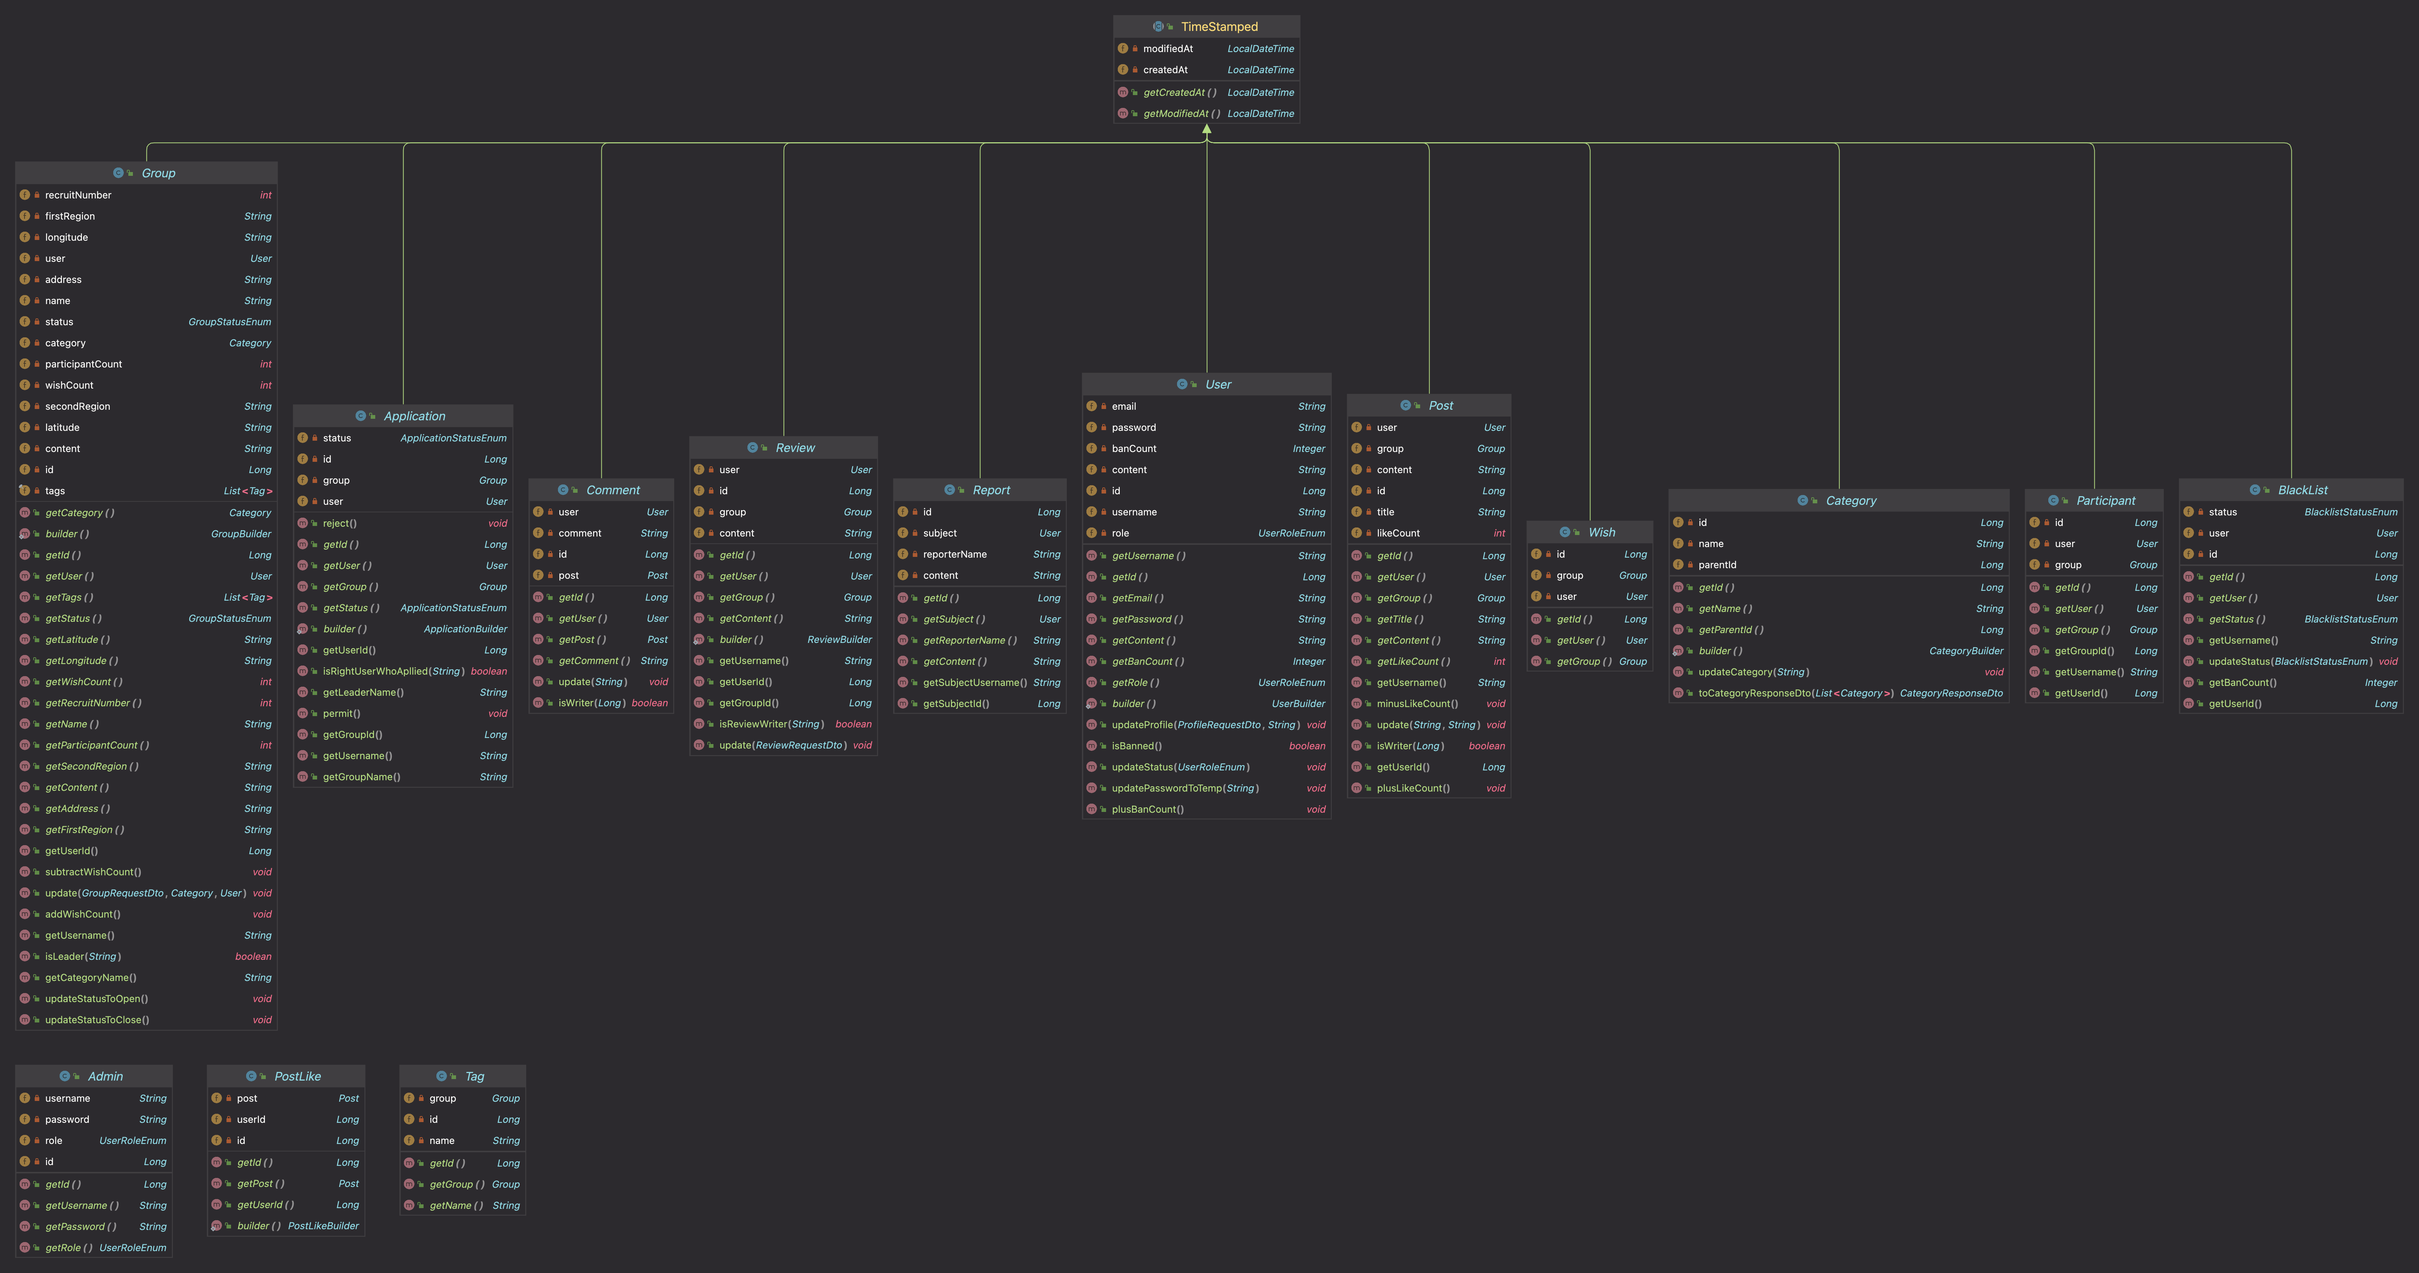
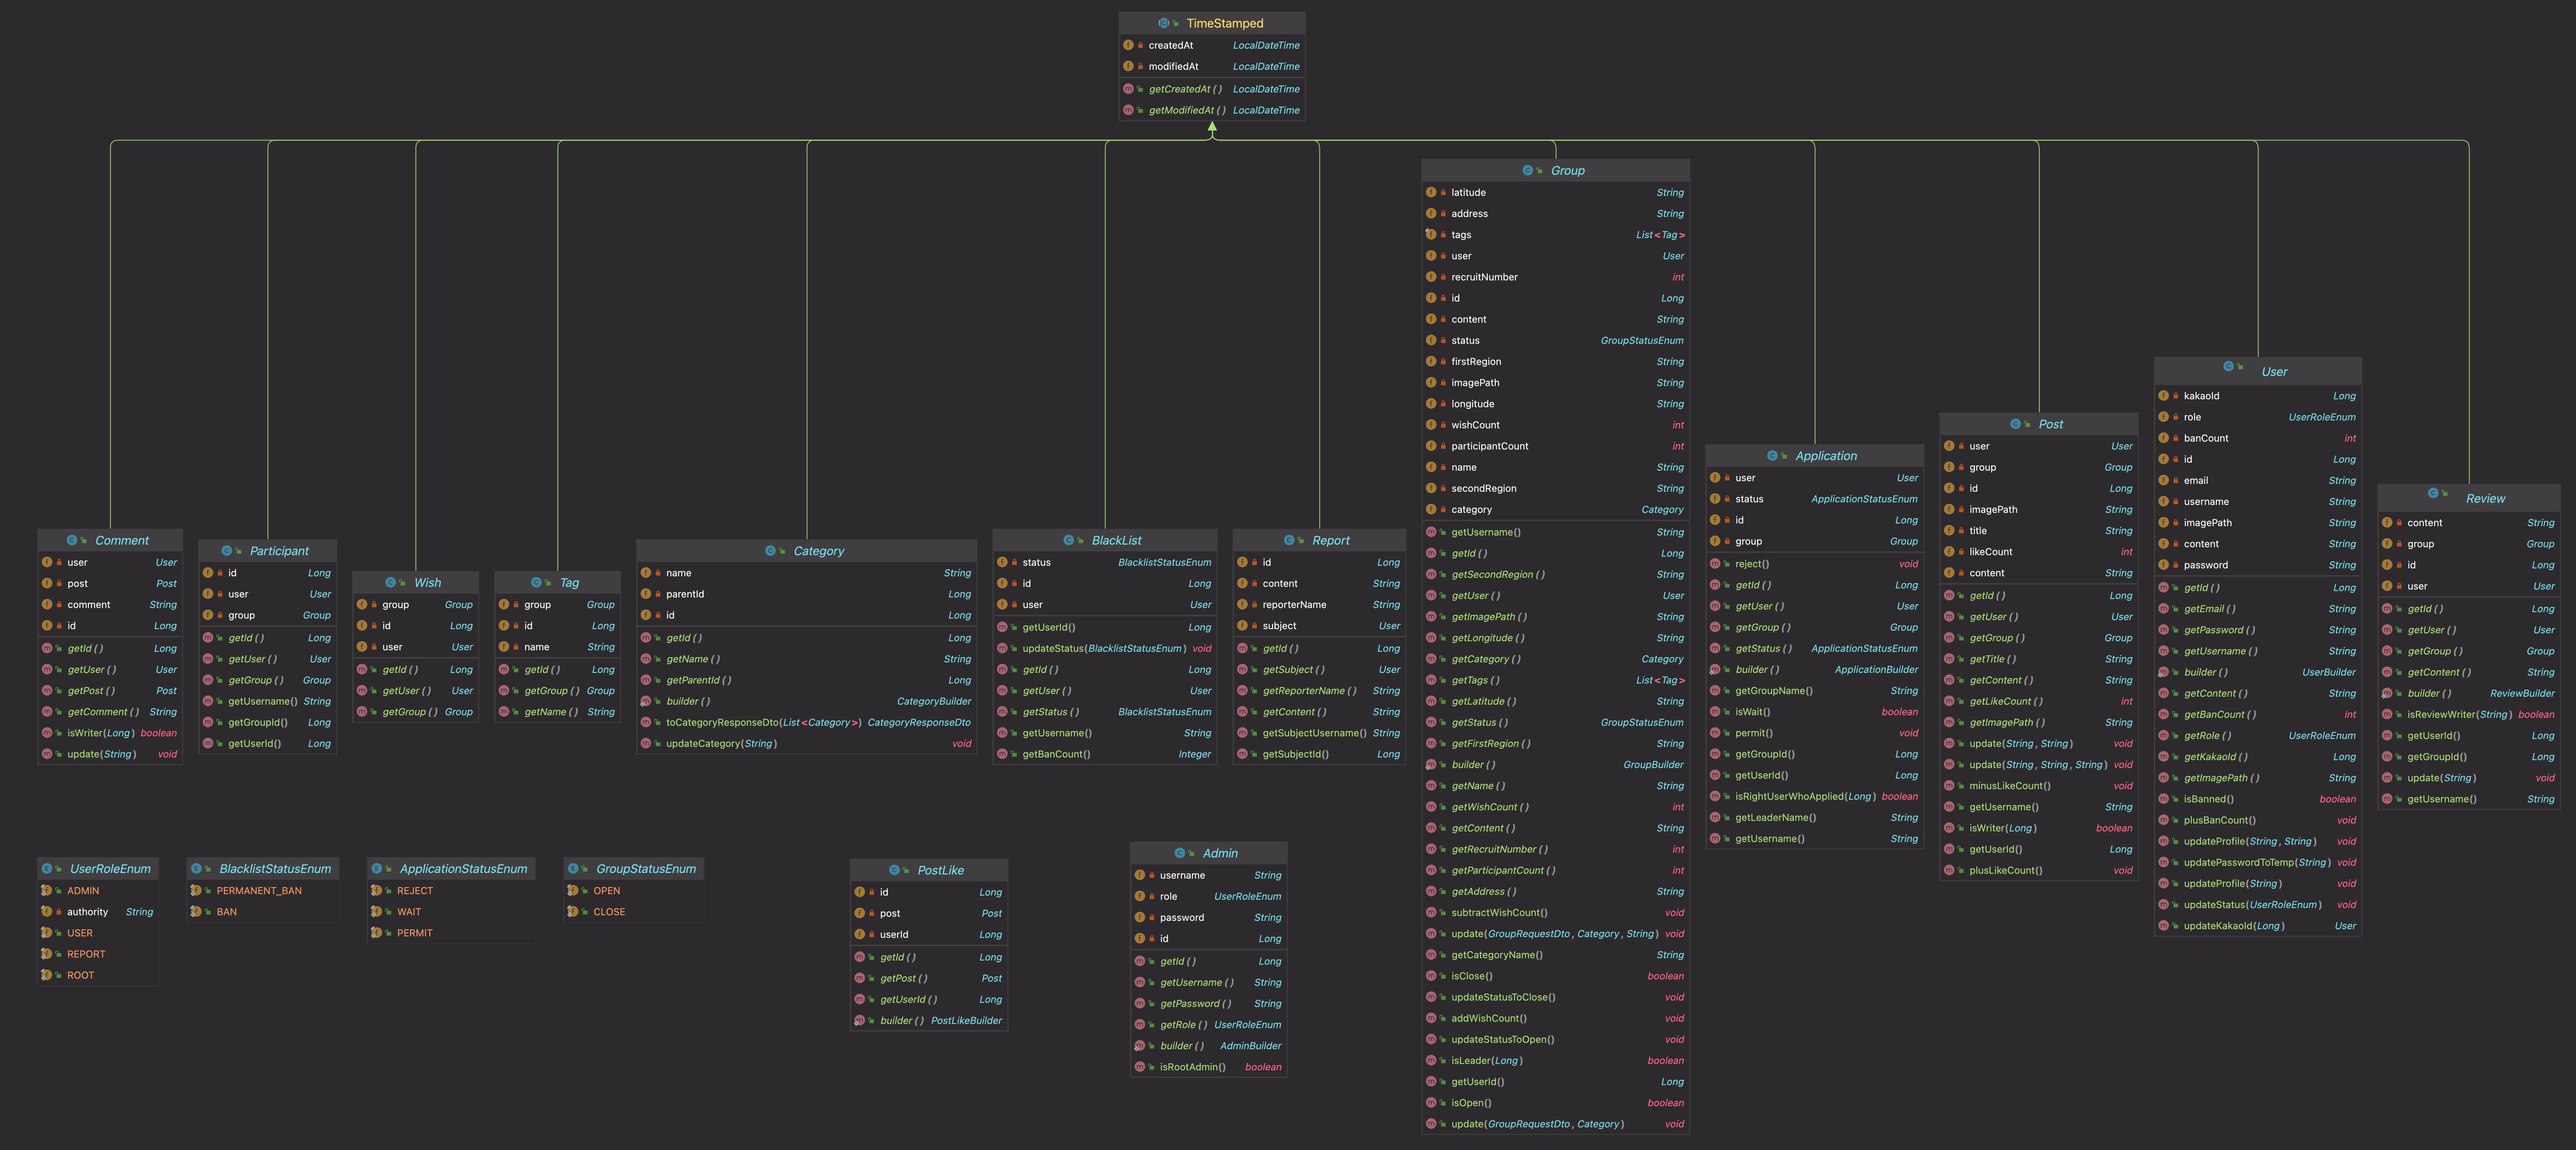
[Docs] 리드미 내용 추가 및 수정 - erd, uml, 서비스 아키텍처 이미지 변경, 팀 소개 내용 추가#107

diff --git a/src/main/java/com/saemoim/controller/UserController.java b/src/main/java/com/saemoim/controller/UserController.java
@@ -39,7 +39,6 @@ import lombok.RequiredArgsConstructor;
 public class UserController {
 
 	private final UserService userService;
-	private final AWSS3Uploader awss3Uploader;
 
 	// 회원 가입
 	@PostMapping("/sign-up")

diff --git a/README.md b/README.md
@@ -1,5 +1,8 @@
 # 새모임 프로젝트🕊
 > 오프라인에서 취미활동을 함께 하거나, 혼자서는 갈 수 없는 곳에 함께 갈 파티원을 모집할 수 있는 서비스
+
+<img src="src/main/documents/saemoim.png">
+
 ___ 
 ### 프로젝트 설명 </br>
 새로운(New) 모임, 새(Bird)처럼 자유로운 모임 <br>
@@ -15,8 +18,6 @@ ___
 
 [![My Skills](https://skillicons.dev/icons?i=mysql,redis)](https://skillicons.dev) <br>
 
-
-
 <div>
   <img src="https://img.shields.io/badge/spring boot-6DB33F?style=for-the-badge&logo=springboot&logoColor=white">
   <img src="https://img.shields.io/badge/Spring_Security-6DB33F?style=for-the-badge&logo=Spring-Security&logoColor=white"> <br>
@@ -26,8 +27,8 @@ ___
   <img src="https://img.shields.io/badge/Amazon RDS-232f3e?style=for-the-badge&logo=Amazon RDS&logoColor=ec7211"> <br>
   <img src="https://img.shields.io/badge/Github Actions-3373EF?style=for-the-badge&logo=Github Actions&logoColor=white">
 </div>
-___
 
+___
 ### 목차
 <!-- TOC -->
 * [새모임 프로젝트🕊](#-)
@@ -115,11 +116,11 @@ ___
 </details>
 
 ___
-### 팀소개
+### 팀소개 
 
-| 역할  | 이름  | 블로그                          |
-|-----|-----|------------------------------|
-| `리더`  | 이송언 | https://velog.io/@8essong30  |
-| `부리더` | 장성준 | https://ace-jun.tistory.com  |
-| `팀원`  | 이지섭 | https://velog.io/@leejiseop  |
-| `팀원`  | 김현중 | https://pooca12.tistory.com  |
+| 역할  | 이름 | 담당역할                                                                                                                                                                                              | 블로그                         |
+|-----|----|---------------------------------------------------------------------------------------------------------------------------------------------------------------------------------------------------|-----------------------------|
+| `리더`  | 이송언 | - 모임CRUD<br/>- 모임 참여 시스템<br/> - 모임 탈퇴<br/>- 모임 검색<br/> - 모임 위시리스트<br/> - 모임 리뷰CRUD<br/> - 비밀번호 찾기<br/> - 프로필CRUD<br/> - RESTDocs                                                                  | https://velog.io/@8essong30 |
+| `부리더` | 장성준 | - JWT 토큰<br/> - 토큰 재발급<br/> - 스프링시큐리티<br/> - 로그인 및 로그아웃<br/> - 카테고리CRUD<br/> - 블랙리스트CRUD<br/> - 이메일 발송 기능<br/> - 인기모임조회<br/> - 신고하기CRUD<br/> - 회원 탈퇴<br/> - 카카오 로그인<br/> - 지도 API 연결<br/> - CI/CD | https://ace-jun.tistory.com |
+| `팀원`  | 이지섭 | - 전체 프론트 구현과 검수<br/> - 실시간 채팅<br/> - 채팅 저장/불러오기<br/>                                                                                                                                              | https://velog.io/@leejiseop |
+| `팀원`  | 김현중 | - 스프링 시큐리티<br/> - 회원가입 및 로그인<br/> - 게시판 CRUD<br/> - 좋아요기능<br/> - S3 이미지 구현 및 연결<br/>                                                                                                              | https://pooca12.tistory.com |
